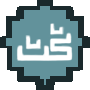
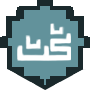
new background, some code restructuring, new gamepad

diff --git a/public/games/aurora/index.html b/public/games/aurora/index.html
@@ -31,18 +31,18 @@
     </script>
   </head>
   <body>
-    <div id="outerGamePad">
-      <div id="gamePadWheel" height="250px" width="250px"> 
+    <div id="outerGamePad" class="outerWrapper">
+      <div id="gamePadWheel" height="250px" width="250px" class = "innerWrapper"> 
         <img src="assets/img/gamePad.png" height="250px" width="250px" />
-        <div class = "arrow" id = "up" data-img="assets/img/upArrow.png"> </div>
-        <div class = "arrow" id = "down" data-img="assets/img/downArrow.png"> </div>
-        <div class = "arrow" id = "left" data-img="assets/img/leftArrow.png"> </div>
-        <div class = "arrow" id = "right" data-img="assets/img/rightArrow.png"> </div>
+        <div class = "arrow" id = "up"> </div>
+        <div class = "arrow" id = "down"> </div>
+        <div class = "arrow" id = "left"> </div>
+        <div class = "arrow" id = "right"> </div>
 
-        <div class = "arrowHover" id = "upPressed" data-img="assets/img/upArrow.png"> </div>
-        <div class = "arrowHover" id = "downPressed" data-img="assets/img/downArrow.png"> </div>
-        <div class = "arrowHover" id = "leftPressed" data-img="assets/img/leftArrow.png"> </div>
-        <div class = "arrowHover" id = "rightPressed" data-img="assets/img/rightArrow.png"> </div>
+        <div class = "arrowHover" id = "upPressed"> </div>
+        <div class = "arrowHover" id = "downPressed"> </div>
+        <div class = "arrowHover" id = "leftPressed"> </div>
+        <div class = "arrowHover" id = "rightPressed"> </div>
       </div>
     </div>
     <div id="hft-portrait" class="hft-fullsize hft-fullcenter">

diff --git a/public/games/aurora/css/aurora.css b/public/games/aurora/css/aurora.css
@@ -60,6 +60,14 @@ body {
   left: 80px;
 }
 
+#startButton {
+  background-image: url('../assets/img/startButton.png');
+}
+
+#startButtonPressed {
+  background-image: url('../assets/img/startButtonPressed.png');
+}
+
 .ui-page {
   height: 100%;
 }
@@ -73,7 +81,7 @@ body {
 /* vertical and horizontal centering
 http://stackoverflow.com/questions/17213113/vertical-centering-flexbox-overlay-in-ios-safari
 */
-#outerGamePad {
+.outerWrapper {
   display: -webkit-box; /* OLD - iOS 6-, Safari 3.1-6 */
   display: -moz-box; /* OLD - Firefox 19- (buggy but mostly works) */
   display: -ms-flexbox; /* TWEENER - IE 10 */
@@ -93,9 +101,7 @@ http://stackoverflow.com/questions/17213113/vertical-centering-flexbox-overlay-i
   box-sizing: border-box;
 }
 
-#gamePadWheel {
-    min-height: 10px;
-    min-width: 10px;
+.innerWrapper {
     margin: auto;
     position: relative;
 }

diff --git a/public/games/aurora/scripts/auroracontroller.js b/public/games/aurora/scripts/auroracontroller.js
@@ -32,10 +32,6 @@ var main = function(GameClient, Misc, MobileHacks) {
         sound.startSound("assets/horse.ogg");
     }
 
-  // Insert your controller specific code here.
-    console.log("INIT CONTROLLER");
-
-
     var GameControls = (function () {
         function GameControls() {
         }
